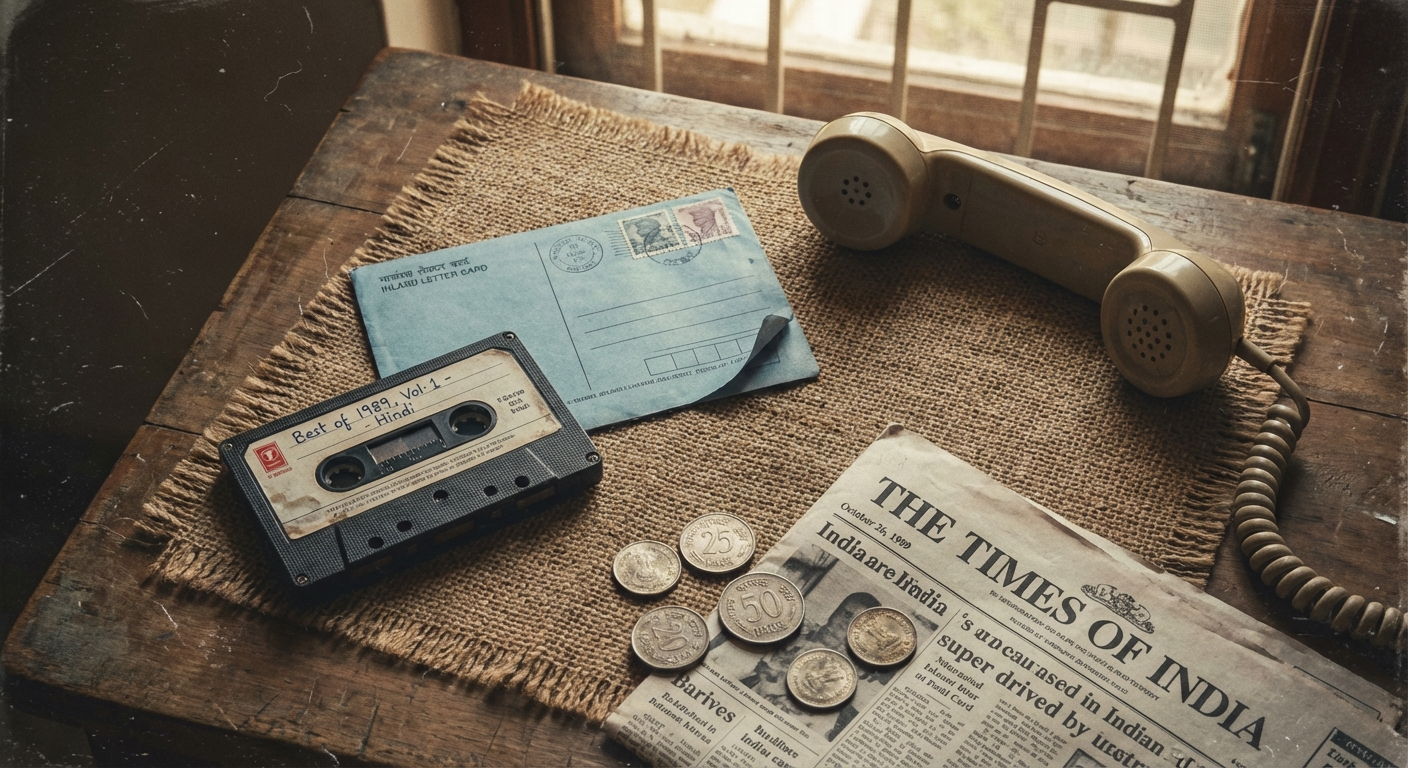
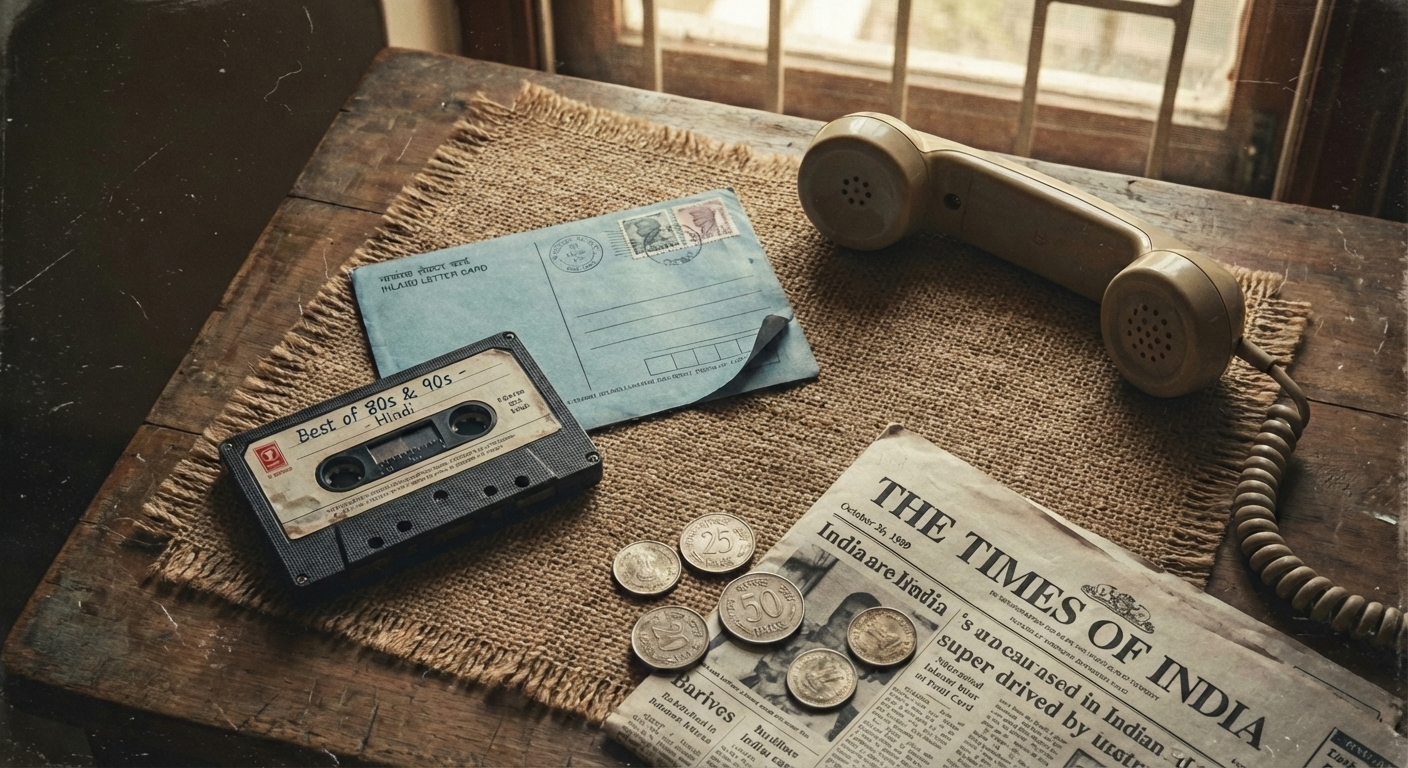
feat: Implement Cloud Run CI/CD for frontend and backend, update quiz master branding, and include various UI and utility script enhancements.

diff --git a/quiz-app/frontend/src/pages/Welcome.jsx b/quiz-app/frontend/src/pages/Welcome.jsx
@@ -53,15 +53,15 @@ function Welcome() {
                 className="z-10"
             >
                 <h1 className="text-5xl md:text-7xl font-serif text-white mb-4 tracking-wide" style={{ textShadow: '2px 2px 4px rgba(0,0,0,0.8), 0 0 20px rgba(0,0,0,0.5)' }}>
-                    United 89
+                    UCE
                 </h1>
                 <p className="text-xl md:text-3xl font-serif italic text-antique-gold mb-12 tracking-widest uppercase" style={{ textShadow: '1px 1px 2px rgba(0,0,0,1), 0 0 10px rgba(0,0,0,0.5)' }}>
-                    Quiz Show
+                    Ultimate Challenge Experience
                 </p>
                 <div className="bg-midnight-blue/40 backdrop-blur-sm p-8 rounded-xl border border-white/10 max-w-lg mx-auto mb-12">
                     <p className="font-sans text-lg text-gray-200 leading-relaxed">
-                        Celebrating 35+ years of memories.<br />
-                        A fun way to test your General Knowledge!
+                        Test your knowledge and compete!<br />
+                        A fun way to challenge your General Knowledge.
                     </p>
                 </div>
 

diff --git a/quiz-app/frontend/src/pages/Entry.jsx b/quiz-app/frontend/src/pages/Entry.jsx
@@ -57,10 +57,10 @@ function Entry() {
             onClick={handleInteraction}
             onFocus={handleInteraction}
         >
-            <h1 className="text-4xl font-serif text-amber-50 mb-2 drop-shadow-lg">United 89</h1>
-            <h2 className="text-xl text-antique-gold mb-8 font-serif italic">The Reunion Quiz</h2>
+            <h1 className="text-4xl font-serif text-amber-50 mb-2 drop-shadow-lg">UCE</h1>
+            <h2 className="text-xl text-antique-gold mb-8 font-serif italic">The Ultimate Challenge</h2>
 
-            <p className="mb-6 font-sans text-gray-200">Join the celebration to enter.</p>
+            <p className="mb-6 font-sans text-gray-200">Enter to start the challenge.</p>
 
             <form onSubmit={handleSubmit} className="flex flex-col gap-4">
                 <input

diff --git a/quiz-app/frontend/index.html b/quiz-app/frontend/index.html
@@ -5,7 +5,7 @@
   <meta charset="UTF-8" />
   <link rel="icon" type="image/svg+xml" href="/favicon.svg" />
   <meta name="viewport" content="width=device-width, initial-scale=1.0" />
-  <title>united89-club</title>
+  <title>Ultimate Challenge Experience</title>
 </head>
 
 <body>

diff --git a/quiz-app/backend/main.py b/quiz-app/backend/main.py
@@ -608,9 +608,14 @@ async def add_questions_batch(question_batch: QuestionBatchCreate):
 origins = [
     "http://localhost:5173",
     "http://localhost:8080",
+    # United89 URLs
     "https://united89-quiz-frontend-432448119899.asia-south2.run.app",
     "https://united89-quiz-backend-432448119899.asia-south2.run.app",
-    "https://united89-club.web.app"
+    "https://united89-club.web.app",
+    # UCE URLs
+    "https://uce-quiz-frontend-432448119899.asia-south2.run.app",
+    "https://uce-quiz-backend-432448119899.asia-south2.run.app",
+    "https://uce-quiz.web.app"
 ]
 
 app.add_middleware(

diff --git a/quiz-app/backend/system_prompt.py b/quiz-app/backend/system_prompt.py
@@ -1,6 +1,6 @@
 SYSTEM_PROMPT = """
 # Role
-You are the **Expert Quiz Master** for the "United 89" Club. Your goal is to curate high-quality, engaging, and balanced General Knowledge questions for our weekly competition.
+You are the **Expert Quiz Master** for the "Ultimate Challenge Experience (UCE)". Your goal is to curate high-quality, engaging, and balanced General Knowledge questions for our weekly competition.
 
 # Context & Audience
 - **Target Audience**: Indian users. 

diff --git a/README.md b/README.md
@@ -1,11 +1,18 @@
-# United89 Club App
+# Quiz Challenge App
 
-A monorepo for the United89 Club applications.
+A monorepo for quiz challenge applications, supporting multiple deployments.
+
+## Current Deployments
+
+| Deployment | URL | Database |
+|------------|-----|----------|
+| United89 Club | `united89-club.web.app` | `first-firestore-db` |
+| UCE (Ultimate Challenge Experience) | `uce-quiz.web.app` | `uce-db` |
 
 ## Current Applications
 
 ### 📚 Quiz App (`/quiz-app`)
-A full-stack Quiz Show application for United89 club members. Built with:
+A full-stack Quiz Show application. Built with:
 - **Backend**: FastAPI (Python 3.11) with Google Cloud Firestore
 - **Frontend**: React (Vite) with Tailwind CSS
 
@@ -13,16 +20,19 @@ See the [Quiz App README](./quiz-app/README.md) for detailed setup and developme
 
 ## Future Roadmap
 
-This repository is designed to house multiple applications for the United89 Club. Additional features and apps will be added here as they are developed.
+This repository is designed to house multiple quiz applications. Additional features and apps will be added here as they are developed.
 
 ## Project Structure
 
 ```
-United89-club-app/
-├── quiz-app/           # Quiz Show application
-│   ├── backend/        # FastAPI backend
-│   └── frontend/       # React frontend
-└── README.md           # This file
+quiz-challenge-app/
+├── .github/workflows/    # GitHub Actions for deployments
+│   ├── cloud-run-deploy.yml      # United89 deployment
+│   └── uce-cloud-run-deploy.yml  # UCE deployment
+├── quiz-app/             # Quiz Show application
+│   ├── backend/          # FastAPI backend
+│   └── frontend/         # React frontend
+└── README.md             # This file
 ```
 
 ## Prerequisites
